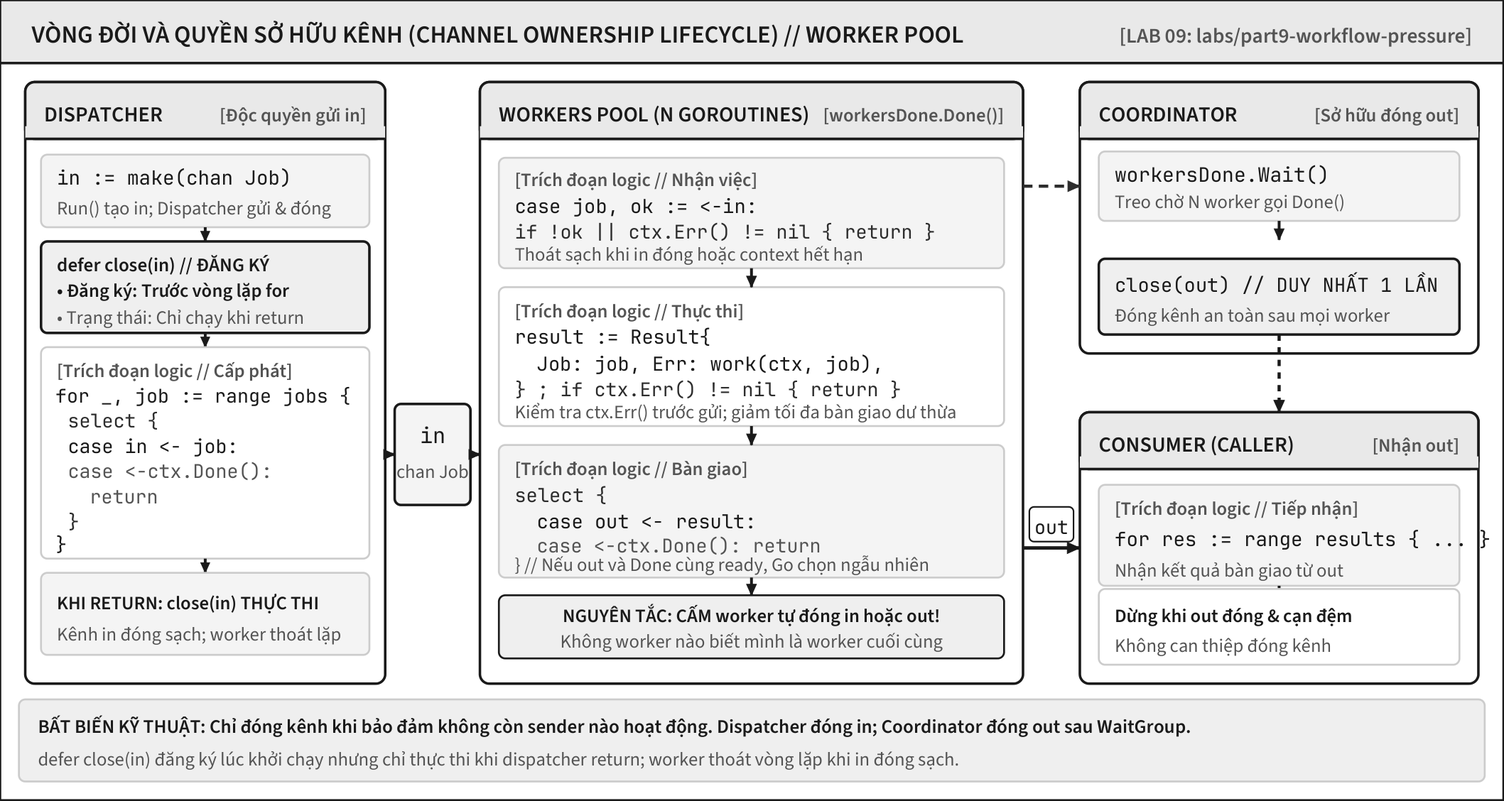
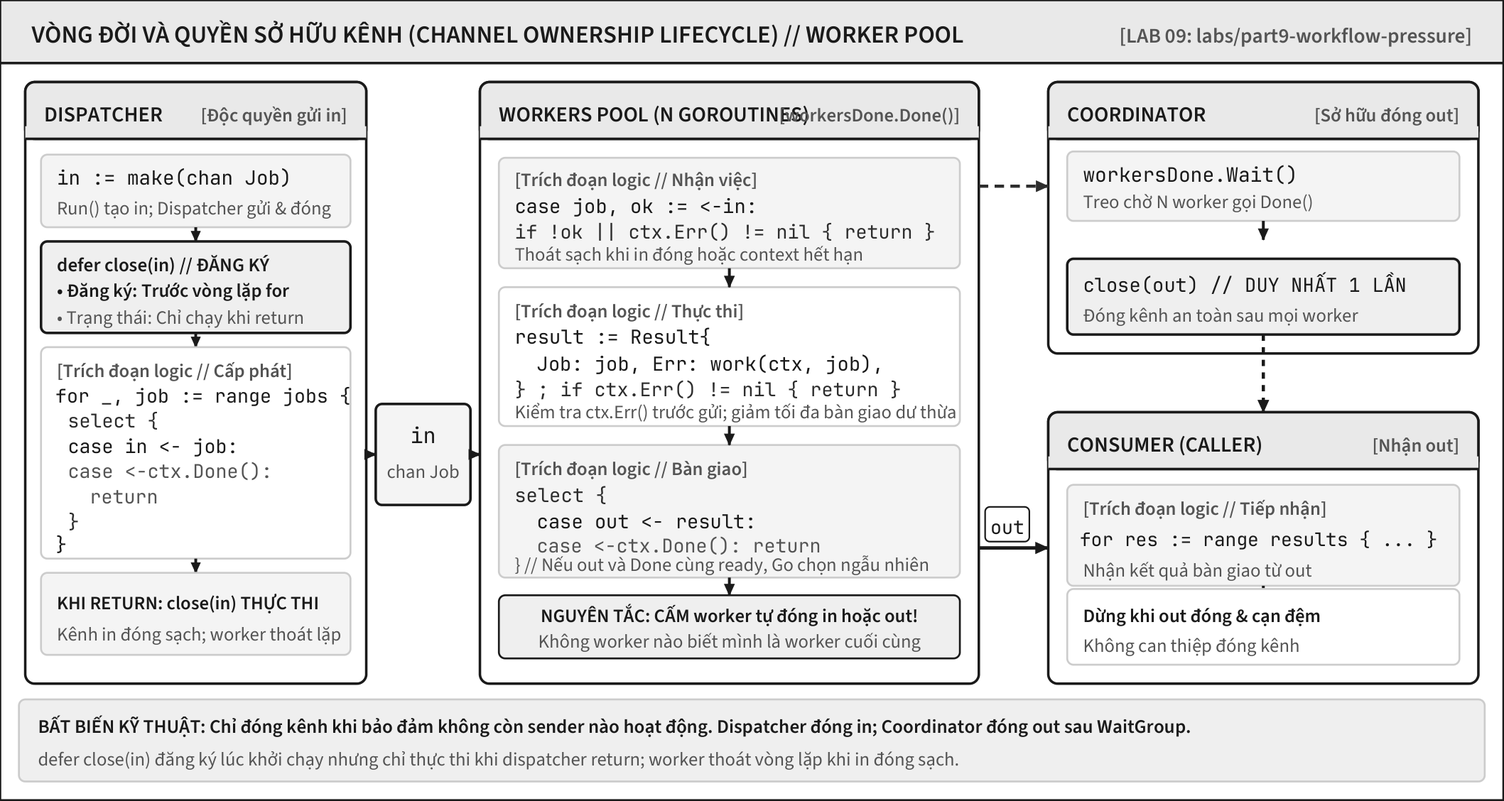
fix(editorial): synchronize technical terms, pronouns, lab contracts and diagram boundaries (ISS-06, ISS-07, ISS-09..ISS-14)

diff --git a/scripts/ch12_15_vector_diagrams.py b/scripts/ch12_15_vector_diagrams.py
@@ -160,14 +160,14 @@ def build_http_service_lifecycle_drawing(w: float = 185.80, h: float = 362.83) -
     card_x = 5.0
     card_w = w - 10.0  # 175.80 pt
 
-    # Heights of 5 stages (Total stages = 262.0 pt)
-    s1_h = 44.0
-    s2_h = 38.0
-    s3_h = 58.0
-    s4_h = 66.0
-    s5_h = 56.0
-    total_stages_h = s1_h + s2_h + s3_h + s4_h + s5_h  # 262.0 pt
-    gap = (body_top - body_bot - total_stages_h) / 4.0  # (291.83 - 262.0) / 4 = 7.4575 pt
+    # Heights of 5 stages (Total stages = 276.0 pt, widened box 02 & 04 ISS-09)
+    s1_h = 43.0
+    s2_h = 46.0
+    s3_h = 56.0
+    s4_h = 77.0
+    s5_h = 54.0
+    total_stages_h = s1_h + s2_h + s3_h + s4_h + s5_h  # 276.0 pt
+    gap = (body_top - body_bot - total_stages_h) / 4.0  # ~3.95 pt
 
     # ------------------------------------------------------------------
     # Stage 1: Khởi tạo & Process Boundary (Startup)
@@ -191,10 +191,10 @@ def build_http_service_lifecycle_drawing(w: float = 185.80, h: float = 362.83) -
     d.add(Rect(card_x + 4.0, y2 + s2_h - 11.0, 15.0, 8.5, fillColor=COLOR_TAG_BG, strokeColor=COLOR_BORDER, strokeWidth=0.5, rx=1.5, ry=1.5))
     d.add(String(card_x + 11.5, y2 + s2_h - 9.0, "02", fontName="BookMono", fontSize=6.0, fillColor=COLOR_INK_DARK, textAnchor="middle"))
     d.add(String(card_x + 23.0, y2 + s2_h - 9.0, "2. TIẾP NHẬN & PHỤC VỤ (ACTIVE)", fontName="BookSansBold", fontSize=6.3, fillColor=COLOR_INK_DARK))
-    d.add(String(card_x + 6.0, y2 + 22.5, "Incoming Request -> ServeHTTP(w, r)", fontName="BookMono", fontSize=6.1, fillColor=COLOR_INK_DARK))
-    d.add(String(card_x + 6.0, y2 + 15.5, "• r.Context() gắn theo vòng đời request", fontName="BookSans", fontSize=6.0, fillColor=COLOR_INK_MID))
-    d.add(String(card_x + 6.0, y2 + 9.5, "• Có thể kế thừa từ Server.BaseContext", fontName="BookSans", fontSize=6.0, fillColor=COLOR_INK_MUTED))
-    d.add(String(card_x + 6.0, y2 + 4.5, "• Handler chạy độc lập với shutdown ctx", fontName="BookSansBold", fontSize=6.0, fillColor=COLOR_INK_DARK))
+    d.add(String(card_x + 6.0, y2 + 27.5, "Incoming Request -> ServeHTTP(w, r)", fontName="BookMono", fontSize=6.1, fillColor=COLOR_INK_DARK))
+    d.add(String(card_x + 6.0, y2 + 19.5, "• r.Context() gắn theo vòng đời request", fontName="BookSans", fontSize=6.0, fillColor=COLOR_INK_MID))
+    d.add(String(card_x + 6.0, y2 + 11.5, "• Có thể kế thừa từ Server.BaseContext", fontName="BookSans", fontSize=6.0, fillColor=COLOR_INK_MUTED))
+    d.add(String(card_x + 6.0, y2 + 4.0, "• Handler chạy độc lập với shutdown ctx", fontName="BookSansBold", fontSize=6.0, fillColor=COLOR_INK_DARK))
     draw_arrow(d, card_x + card_w / 2.0, y2, card_x + card_w / 2.0, y2 - gap, color=COLOR_INK_DARK, width=1.0, head_size=3.6)
 
     # ------------------------------------------------------------------
@@ -243,13 +243,13 @@ def build_http_service_lifecycle_drawing(w: float = 185.80, h: float = 362.83) -
     d.add(Rect(card_x + 4.0, y4 + s4_h - 11.0, 15.0, 8.5, fillColor=COLOR_TAG_BG, strokeColor=COLOR_BORDER, strokeWidth=0.5, rx=1.5, ry=1.5))
     d.add(String(card_x + 11.5, y4 + s4_h - 9.0, "04", fontName="BookMono", fontSize=6.0, fillColor=COLOR_INK_DARK, textAnchor="middle"))
     d.add(String(card_x + 23.0, y4 + s4_h - 9.0, "4. ĐIỀU PHỐI Server.Shutdown", fontName="BookSansBold", fontSize=6.3, fillColor=COLOR_INK_DARK))
-    d.add(String(card_x + 6.0, y4 + 50.5, "shutdownCtx, cancel := context.WithTimeout(", fontName="BookMono", fontSize=6.0, fillColor=COLOR_INK_DARK))
-    d.add(String(card_x + 12.0, y4 + 43.5, "context.Background(), grace); defer cancel()", fontName="BookMono", fontSize=6.0, fillColor=COLOR_INK_DARK))
-    d.add(String(card_x + 6.0, y4 + 36.0, "1. err := srv.Shutdown(shutdownCtx)", fontName="BookSansBold", fontSize=6.0, fillColor=COLOR_INK_DARK))
-    d.add(String(card_x + 10.0, y4 + 28.5, "• Lỗi Shutdown => return fmt.Errorf(\"shutdown: %w\", err)", fontName="BookSans", fontSize=6.0, fillColor=COLOR_INK_DARK))
-    d.add(String(card_x + 6.0, y4 + 21.0, "2. Chỉ khi Shutdown thành công mới nhận <-serveErr:", fontName="BookSansBold", fontSize=6.0, fillColor=COLOR_INK_DARK))
-    d.add(String(card_x + 10.0, y4 + 13.5, "• Khớp ErrServerClosed => return nil (sạch)", fontName="BookSans", fontSize=6.0, fillColor=COLOR_INK_MID))
-    d.add(String(card_x + 10.0, y4 + 6.0, "• Khác ErrServerClosed => bọc lỗi và trả về", fontName="BookSans", fontSize=6.0, fillColor=COLOR_INK_MUTED))
+    d.add(String(card_x + 6.0, y4 + 58.0, "shutdownCtx, cancel := context.WithTimeout(", fontName="BookMono", fontSize=6.0, fillColor=COLOR_INK_DARK))
+    d.add(String(card_x + 12.0, y4 + 49.5, "context.Background(), grace); defer cancel()", fontName="BookMono", fontSize=6.0, fillColor=COLOR_INK_DARK))
+    d.add(String(card_x + 6.0, y4 + 41.0, "1. err := srv.Shutdown(shutdownCtx)", fontName="BookSansBold", fontSize=6.0, fillColor=COLOR_INK_DARK))
+    d.add(String(card_x + 10.0, y4 + 32.5, "• Lỗi Shutdown => return fmt.Errorf(\"shutdown: %w\", err)", fontName="BookSans", fontSize=6.0, fillColor=COLOR_INK_DARK))
+    d.add(String(card_x + 6.0, y4 + 24.0, "2. Chỉ khi Shutdown thành công mới nhận <-serveErr:", fontName="BookSansBold", fontSize=6.0, fillColor=COLOR_INK_DARK))
+    d.add(String(card_x + 10.0, y4 + 15.5, "• Khớp ErrServerClosed => return nil (sạch)", fontName="BookSans", fontSize=6.0, fillColor=COLOR_INK_MID))
+    d.add(String(card_x + 10.0, y4 + 6.5, "• Khác ErrServerClosed => bọc lỗi và trả về", fontName="BookSans", fontSize=6.0, fillColor=COLOR_INK_MUTED))
     draw_arrow(d, card_x + card_w / 2.0, y4, card_x + card_w / 2.0, y4 - gap, color=COLOR_INK_DARK, width=1.0, head_size=3.6)
 
     # ------------------------------------------------------------------

diff --git a/scripts/ch09_11_vector_diagrams.py b/scripts/ch09_11_vector_diagrams.py
@@ -196,15 +196,15 @@ def build_channel_work_lifecycle_drawing(w: float = 476.22, h: float = 253.62) -
     body_y = footer_y + footer_h + 5.0  # 37.0 pt
     body_h = (h - header_h) - body_y - 6.0  # 190.62 pt
 
-    # 3 Columns Layout
+    # 3 Columns Layout (optimized for safe padding & zero overflow ISS-09)
     col1_x = 8.0
-    col1_w = 114.0
+    col1_w = 108.0
 
     col2_x = 152.0
-    col2_w = 172.0
+    col2_w = 158.0
 
-    col3_x = 342.0
-    col3_w = w - col3_x - 8.0  # 126.22 pt
+    col3_x = 332.0
+    col3_w = w - col3_x - 8.0  # 136.22 pt
 
     # ------------------------------------------------------------------
     # COLUMN 1: DISPATCHER (Producer)
@@ -268,7 +268,7 @@ def build_channel_work_lifecycle_drawing(w: float = 476.22, h: float = 253.62) -
     # TRANSFER: Dispatcher -> in channel -> Workers
     # ------------------------------------------------------------------
     chan_jobs_x = col1_x + col1_w + 3.0
-    chan_jobs_w = col2_x - chan_jobs_x - 3.0  # 26.0 pt
+    chan_jobs_w = col2_x - chan_jobs_x - 3.0  # 30.0 pt (widen badge for chan Job padding)
     chan_jobs_y = d3_y + 17.0
     chan_jobs_h = 32.0
 
@@ -387,7 +387,7 @@ def build_channel_work_lifecycle_drawing(w: float = 476.22, h: float = 253.62) -
     cb1_y = c_bot_y + c_bot_h - 18.0 - 5.0 - cb1_h
     d.add(Rect(c_box_x, cb1_y, c_box_w, cb1_h, fillColor=COLOR_BG_SUBTLE, strokeColor=COLOR_BORDER_SUBTLE, strokeWidth=0.6, rx=2, ry=2))
     d.add(String(c_box_x + 5.0, cb1_y + 22.5, "[Trích đoạn logic // Tiếp nhận]", fontName="BookSansBold", fontSize=6.0, fillColor=COLOR_INK_MUTED))
-    d.add(String(c_box_x + 5.0, cb1_y + 12.5, "for res := range results { ... }", fontName="BookMono", fontSize=6.2, fillColor=COLOR_INK_DARK))
+    d.add(String(c_box_x + 4.0, cb1_y + 12.5, "for res := range results { ... }", fontName="BookMono", fontSize=5.9, fillColor=COLOR_INK_DARK))
     d.add(String(c_box_x + 5.0, cb1_y + 3.0, "Nhận kết quả bàn giao từ out", fontName="BookSans", fontSize=6.0, fillColor=COLOR_INK_MUTED))
 
     # Arrow CB1 -> CB2

diff --git a/scripts/ch05_vector_diagrams.py b/scripts/ch05_vector_diagrams.py
@@ -271,7 +271,7 @@ def build_package_boundary_graph_drawing(w: float = 369.13, h: float = 362.83) -
     d.add(Rect(cfg_x + 6.0, bot_box_y + col_h - 35.5, col_w - 12.0, 10.5,
                fillColor=COLOR_TAG_BG, strokeColor=None, rx=1.5, ry=1.5))
     d.add(String(cfg_x + (col_w / 2.0), bot_box_y + col_h - 32.5,
-                 "internal/ giới hạn theo cây thư mục cha",
+                 "internal/ giới hạn theo nhánh import/thư mục cha",
                  fontName="BookSans", fontSize=6.0, fillColor=COLOR_INK_MID, textAnchor="middle"))
 
     # Internal details
@@ -380,7 +380,7 @@ def build_package_boundary_graph_drawing(w: float = 369.13, h: float = 362.83) -
                  fontName="BookSansBold", fontSize=6.8, fillColor=COLOR_INK_DARK))
 
     d.add(String(x_left + 8.0, foot_y + foot_h - 23.0,
-                 "• Quy tắc bắt buộc của Go: internal/ giới hạn import theo cây thư mục cha; compiler từ chối mọi chu trình (import cycle not allowed).",
+                 "• Quy tắc bắt buộc của Go: internal/ giới hạn import theo nhánh import cha (hoặc thư mục cha); compiler từ chối mọi chu trình (import cycle not allowed).",
                  fontName="BookSans", fontSize=6.2, fillColor=COLOR_INK_MID))
     d.add(String(x_left + 8.0, foot_y + foot_h - 33.0,
                  "• Chính sách kiến trúc dự án: Dependency đi một chiều từ cmd; probe và config độc lập hoàn toàn, không import ngược hoặc chéo.",

diff --git a/scripts/render_ch22_diagrams.py b/scripts/render_ch22_diagrams.py
@@ -1,5 +1,8 @@
-"""Render the two editable, grayscale Chapter 22 diagrams at print resolution."""
+"""DEPRECATED: This script is deprecated in favor of scripts/ch19_29_vector_diagrams.py.
 
+Do not use for production diagram generation. The authoritative single source of truth
+for Chapter 22 diagrams (Figures 36 & 37) is scripts/ch19_29_vector_diagrams.py.
+"""
 from __future__ import annotations
 
 from io import BytesIO

diff --git a/book/chapters/29-ky-su-va-bang-chung-trong-ky-nguyen-agent.md b/book/chapters/29-ky-su-va-bang-chung-trong-ky-nguyen-agent.md
@@ -2,7 +2,7 @@
 
 # Chương 29 — Kỹ sư và bằng chứng trong kỷ nguyên Agent
 
-Một tác tử AI (Agent) vừa đề xuất thay đổi thời gian chờ (*timeout*), tăng số lượng bản sao (*replicas*) và khởi động lại một dịch vụ (*restart service*). Nó đưa ra một đoạn giải thích mạch lạc, một bản vá mã nguồn hợp lệ và dòng thông báo “toàn bộ kiểm thử đều đạt”. Nếu bạn bấm đồng ý phê duyệt, điều gì đã thực sự được chứng minh? Rất có thể chỉ là bài kiểm thử trên một nhánh làm việc khác đã chạy thành công; có thể bản vá đang áp dụng cấu hình khác với môi trường thực tế; hoặc cũng có thể quyền khởi động lại chưa từng được cấp phát cho bên gọi này. Chất lượng của câu trả lời do AI sinh ra và quyền hạn tác động trực tiếp vào hệ thống hoàn toàn không phải là cùng một đại lượng.
+Một tác tử AI (Agent) vừa đề xuất thay đổi thời gian chờ (*timeout*), tăng số lượng bản sao (*replicas*) và khởi động lại một dịch vụ (*restart service*). Nó đưa ra một đoạn giải thích mạch lạc, một bản vá mã nguồn hợp lệ và dòng thông báo “toàn bộ kiểm thử đều đạt”. Nếu ta bấm đồng ý phê duyệt, điều gì đã thực sự được chứng minh? Rất có thể chỉ là bài kiểm thử trên một nhánh làm việc khác đã chạy thành công; có thể bản vá đang áp dụng cấu hình khác với môi trường thực tế; hoặc cũng có thể quyền khởi động lại chưa từng được cấp phát cho bên gọi này. Chất lượng của câu trả lời do AI sinh ra và quyền hạn tác động trực tiếp vào hệ thống hoàn toàn không phải là cùng một đại lượng.
 
 Chương 28 đã hướng dẫn cách trao một công cụ có giới hạn rõ ràng. Chương này chuyển dịch góc nhìn từ phạm vi công cụ sang bản chất công việc của người kỹ sư: chuỗi kiểm chứng *đề xuất → bằng chứng → quyền hạn → hành động giới hạn → hậu điều kiện*. Tác tử AI có thể hỗ trợ đắc lực ở nhiều bước, nhưng một bước hoàn tất không tự động thay thế cho bước kế tiếp. Một mã băm đúng không chứng minh mã nguồn đúng; một ca kiểm thử đạt không tự cấp quyền triển khai; và một đợt triển khai thành công không chứng minh người dùng đã được phục vụ tốt hơn. Đây là mô hình tư duy cốt lõi để thiết kế quy trình kiểm soát và đánh giá khách quan những lời hứa hẹn về tương lai nghề nghiệp, chứ không phải một lời dự đoán xem chức danh nào sẽ trường tồn mãi mãi.
 
@@ -50,7 +50,7 @@ Bản triển khai báo xanh trên giao diện CI/CD chưa đồng nghĩa với 
 
 ### Bài thực hành: Đánh giá phản biện ngắn
 
-Một nhóm kỹ sư báo cáo: “Tác tử AI giúp tăng gấp đôi số lượng yêu cầu hợp nhất mã (Pull Request, tức PR) mỗi tuần”, nhưng hoàn toàn không có số liệu về tỷ lệ PR được chấp thuận, thời gian chờ duyệt hay sự cố phát sinh sau khi phát hành. Hãy chỉ ra ba chỉ số dữ liệu cần thu thập thêm trước khi đưa ra kết luận năng suất thực tế đã tăng. Không cần phủ nhận con số PR tăng lên; bạn cần chỉ rõ con số đó chỉ đo lường nỗ lực đầu vào chứ chưa đo lường kết quả giá trị thực tế đầu ra.
+Một nhóm kỹ sư báo cáo: “Tác tử AI giúp tăng gấp đôi số lượng yêu cầu hợp nhất mã (Pull Request, tức PR) mỗi tuần”, nhưng hoàn toàn không có số liệu về tỷ lệ PR được chấp thuận, thời gian chờ duyệt hay sự cố phát sinh sau khi phát hành. Hãy chỉ ra ba chỉ số dữ liệu cần thu thập thêm trước khi đưa ra kết luận năng suất thực tế đã tăng. Không cần phủ nhận con số PR tăng lên; ta cần chỉ rõ con số đó chỉ đo lường nỗ lực đầu vào chứ chưa đo lường kết quả giá trị thực tế đầu ra.
 
 ## Một cuộc điều tra trước khi cho phép restart
 
@@ -101,17 +101,17 @@ Một cờ đánh dấu đã sử dụng lưu trong bộ nhớ RAM không giải
 
 ## Năng lực nào cần luyện nếu không muốn chỉ làm người bấm duyệt?
 
-Sự khác biệt giữa việc đánh giá mã nguồn (*code review*) thực thụ và việc chỉ đọc lướt qua nằm ở chỗ bạn có khả năng thiết kế một phép thử phản biện để bác bỏ giả định. Với mã đồng thời (*concurrency*), hãy vẽ sơ đồ truy cập bộ nhớ và các cạnh quan hệ diễn ra trước (*happens-before*) thay vì mù quáng tin vào nhãn an toàn đa luồng (*thread-safe*). Với mạng máy tính, hãy theo dõi thời gian chờ qua từng chặng: phân giải DNS, thiết lập kết nối TCP, bắt tay mã hóa TLS, truyền nhận thân phản hồi; một mã trạng thái HTTP đơn thuần không thể phản ánh toàn bộ đường dẫn của một yêu cầu. Với Linux, hãy phân biệt rành mạch giữa tiến trình, bộ mô tả tệp, không gian tên (*namespaces*), hạn ngạch tài nguyên và dung lượng bộ nhớ được hoạch toán. Với hệ thống phân tán, hãy luôn đặt câu hỏi: trùng lặp dữ liệu, quan sát cũ kỹ, cơ chế thử lại và tác dụng phụ (*side effects*) xảy ra tại ranh giới nào. Đây là những năng lực kỹ thuật cốt lõi có thể chuyển giao giữa các công cụ, không hề phụ thuộc vào bất kỳ mô hình AI cụ thể nào.
+Sự khác biệt giữa việc đánh giá mã nguồn (*code review*) thực thụ và việc chỉ đọc lướt qua nằm ở chỗ kỹ sư có khả năng thiết kế một phép thử phản biện để bác bỏ giả định. Với mã đồng thời (*concurrency*), hãy vẽ sơ đồ truy cập bộ nhớ và các cạnh quan hệ diễn ra trước (*happens-before*) thay vì mù quáng tin vào nhãn an toàn đa luồng (*thread-safe*). Với mạng máy tính, hãy theo dõi thời gian chờ qua từng chặng: phân giải DNS, thiết lập kết nối TCP, bắt tay mã hóa TLS, truyền nhận thân phản hồi; một mã trạng thái HTTP đơn thuần không thể phản ánh toàn bộ đường dẫn của một yêu cầu. Với Linux, hãy phân biệt rành mạch giữa tiến trình, bộ mô tả tệp, không gian tên (*namespaces*), hạn ngạch tài nguyên và dung lượng bộ nhớ được hoạch toán. Với hệ thống phân tán, hãy luôn đặt câu hỏi: trùng lặp dữ liệu, quan sát cũ kỹ, cơ chế thử lại và tác dụng phụ (*side effects*) xảy ra tại ranh giới nào. Đây là những năng lực kỹ thuật cốt lõi có thể chuyển giao giữa các công cụ, không hề phụ thuộc vào bất kỳ mô hình AI cụ thể nào.
 
 Khả năng quan sát (*observability*) cũng không đơn thuần là dựng các bảng điều khiển đồ họa (*dashboards*). Một vết thực thi có đủ dữ liệu tương quan để phân biệt giữa thời gian chờ trong hàng đợi và thời gian chờ dịch vụ phụ thuộc hay không? Một chỉ số biến động do sự thay đổi của cơ cấu lưu lượng mạng hay do thay đổi trong mã nguồn? Tác tử AI có thể hỗ trợ viết câu truy vấn và tóm tắt nhật ký; nhưng người kỹ sư vẫn là bên quyết định khế ước đo lường và bảo vệ dữ liệu nhạy cảm. Trong xử lý sự cố, tự động hóa tác vụ chỉ đọc dữ liệu có mức độ rủi ro hoàn toàn khác so với tự động hóa tác vụ xóa Pod hay chỉnh sửa tường lửa. Một hành động “khắc phục nhanh” thiếu kiểm soát có thể xóa sạch hiện trạng hiện trường cần phục vụ điều tra. Quyền hạn và chứng cứ bắt buộc phải tương xứng với mức độ tác động của hành động, không dựa trên vẻ tự tin trong văn bản của mô hình ngôn ngữ.
 
-Một bài thực hành độc lập có thể đọng lại bằng một bộ hồ sơ kỹ thuật cô đọng: yêu cầu bạn tự tay xác lập, phản ví dụ bạn tìm ra, gói phát hành đúng phiên bản, ca kiểm thử bạn đã chạy, phép đo lường có ranh giới rõ ràng, quyết định phân quyền và các hậu điều kiện bạn trực tiếp quan sát. Đừng chỉ lưu lại những đoạn hội thoại dài với AI. Một hồ sơ kỹ thuật vững chắc cho phép người khác kiểm chứng lại toàn bộ lý do đằng sau mỗi quyết định, kể cả khi tác tử AI hay các thư viện đã thay đổi phiên bản. Đó chính là năng lực kiểm chứng có thể rèn luyện được, chứ không phải một ảo tưởng về sự miễn nhiễm trước những biến động của thị trường.
+Một bài thực hành độc lập có thể đọng lại bằng một bộ hồ sơ kỹ thuật cô đọng: yêu cầu ta tự tay xác lập, phản ví dụ ta tìm ra, gói phát hành đúng phiên bản, ca kiểm thử ta đã chạy, phép đo lường có ranh giới rõ ràng, quyết định phân quyền và các hậu điều kiện ta trực tiếp quan sát. Đừng chỉ lưu lại những đoạn hội thoại dài với AI. Một hồ sơ kỹ thuật vững chắc cho phép người khác kiểm chứng lại toàn bộ lý do đằng sau mỗi quyết định, kể cả khi tác tử AI hay các thư viện đã thay đổi phiên bản. Đó chính là năng lực kiểm chứng có thể rèn luyện được, chứ không phải một ảo tưởng về sự miễn nhiễm trước những biến động của thị trường.
 
 ## Kết thúc ở một quyết định có thể bảo vệ
 
 Không có bất kỳ kết luận chắc chắn nào khẳng định “AI sẽ cướp mất nghề nghiệp” hay “kỹ sư giỏi sẽ hoàn toàn không bị ảnh hưởng” từ các tài liệu nghiên cứu hiện có. Các bằng chứng thực nghiệm cho thấy công cụ AI hỗ trợ tăng tốc một số tác vụ nhất định, nhưng lại làm chậm các tác vụ khác trong môi trường phức tạp, đồng thời việc đo lường năng suất khi công cụ liên tục thay đổi là bài toán nhiều thách thức phức tạp. Các dự báo việc làm chỉ mang tính diện rộng tại thị trường Hoa Kỳ, hoàn toàn không có một dự báo chuyên biệt nào đủ căn cứ khoa học cho thị trường kỹ sư Go hay SRE tại Việt Nam. Do đó, thông điệp cốt lõi của cuốn sách là một khuyến nghị có điều kiện: hãy tập trung học cách xây dựng và kiểm chứng hệ thống, tận dụng AI để mở rộng năng lực cá nhân nhưng luôn giữ quyền hạn, gói phát hành và kết quả đầu ra thành những đối tượng có thể kiểm toán minh bạch.
 
-Khi có ai đó hỏi vì sao bạn phê chuẩn một thay đổi trong hệ thống, câu trả lời thuyết phục không bao giờ là “tác tử AI đề xuất như thế” hay “toàn bộ kiểm thử đều báo xanh”. Câu trả lời đó phải là: dựa trên khế ước kỹ thuật nào, bằng chứng gắn liền với gói phát hành nào, trong điều kiện môi trường nào, do ai có thẩm quyền phê duyệt, và trạng thái hệ thống sau khi thực thi đã được quan sát, đo lường ra sao. Một cuốn bách khoa kỹ thuật thực chiến không dừng lại ở việc học thuộc thêm một thư viện. Nó dừng lại ở năng lực thấu suốt: biết rõ mình đang chứng minh điều gì, và điều gì vẫn còn là ẩn số chưa được kiểm chứng.
+Khi có ai đó hỏi vì sao ta phê chuẩn một thay đổi trong hệ thống, câu trả lời thuyết phục không bao giờ là “tác tử AI đề xuất như thế” hay “toàn bộ kiểm thử đều báo xanh”. Câu trả lời đó phải là: dựa trên khế ước kỹ thuật nào, bằng chứng gắn liền với gói phát hành nào, trong điều kiện môi trường nào, do ai có thẩm quyền phê duyệt, và trạng thái hệ thống sau khi thực thi đã được quan sát, đo lường ra sao. Một cuốn bách khoa kỹ thuật thực chiến không dừng lại ở việc học thuộc thêm một thư viện. Nó dừng lại ở năng lực thấu suốt: biết rõ mình đang chứng minh điều gì, và điều gì vẫn còn là ẩn số chưa được kiểm chứng.
 
 @references
 1. Peng, S.; Kalliamvakou, E.; Cihon, P.; Demirer, M. The Impact of AI on Developer Productivity: Evidence from GitHub Copilot. arXiv:2302.06590, 2023. arxiv.org/abs/2302.06590

diff --git a/book/README.md b/book/README.md
@@ -2,52 +2,38 @@
 
 Đây là một cuốn sách đi từ việc **đọc được một tệp Go** đến việc thiết kế, đo đạc và vận hành phần mềm. Mỗi chương là một chuyển dịch đáng kể trong cách nghĩ, không phải một từ khoá hay một API bị tách riêng.
 
-## Phần I — Đọc và viết Go có chủ đích
+## PHẦN I: NỀN TẢNG CƠ HỌC & BỘ NHỚ GO (Chương 00–06)
 
-1. **Một chương trình Go, đọc từ ngoài vào trong.** Tệp nguồn, package, import, tên, literal, khai báo, biểu thức, câu lệnh, block, kiểu, hàm, điều khiển luồng và cách compiler ghép chúng thành một chương trình.
-2. **Giá trị di chuyển qua chương trình.** Biến, const, assignment, conversion, hàm, return, zero value, array, slice, string và điểm mà hai biến bắt đầu dùng chung dữ liệu.
-3. **Mô hình dữ liệu và ownership.** Struct, map, pointer, method, interface, composition và cách chọn API nhỏ dễ đổi.
-
-## Phần II — Làm cho code sửa được và tin được
-
+0. **Mở cửa vào Go & Trước khi viết dòng Go đầu tiên.** Triết lý thiết kế, công cụ kiểm định tĩnh sớm nhất, và dòng dõi ý tưởng Unix / Plan 9.
+1. **Đọc và viết một chương trình Go.** Tệp nguồn, package, import, tên, literal, khai báo, biểu thức, câu lệnh, block, kiểu, hàm, điều khiển luồng và cách compiler ghép chúng thành một chương trình.
+2. **Giá trị, slice và aliasing.** Biến, const, assignment, conversion, hàm, return, zero value, array, slice, string và điểm mà hai biến bắt đầu dùng chung dữ liệu.
+3. **Mô hình dữ liệu và trách nhiệm thay đổi.** Struct, map, pointer, method, interface, composition và cách chọn API nhỏ dễ đổi.
 4. **Biên lỗi.** Error, wrapping, cancellation, defer, panic/recover và quyết định lỗi nào phải đi qua ranh giới nào.
 5. **Thiết kế package.** Module, import graph, internal, configuration, documentation và dependency mà một người đọc có thể lần theo.
 6. **Thay đổi không sợ hãi.** Một đoạn code khó test được refactor dần sang unit test, fake, fuzz, race detector, benchmark và contract test.
+
+## PHẦN II: TƯƠNG TRANH & ĐỘ ỔN ĐỊNH HỆ THỐNG (Chương 07–13)
+
 7. **Dữ liệu đi vào và đi ra.** Stream, resource lifetime, filesystem, JSON/CSV, time, context và các lựa chọn khiến một chương trình I/O không tự treo.
-
-## Phần III — Nhiều việc cùng lúc, nhưng không mất kiểm soát
-
 8. **Một race bắt đầu từ đâu.** Các access chung không có thứ tự an toàn, bốn tầng bằng chứng, và cách đọc race report trước khi nói về API đồng thời.
 9. **Dòng công việc có áp suất.** Channel, select, ownership, cancellation, backpressure, worker pool và leak.
 10. **Khi chương trình chậm hoặc phình.** Benchmark, pprof, trace, allocation, escape, GC, đối chiếu mental model G/M/P từ Chương 09 với execution trace, syscall và cách đo trước khi tối ưu.
-
-## Phần IV — Giao tiếp, dữ liệu và dịch vụ
-
 11. **Một request thực sự đi đâu.** DNS, TCP, TLS, HTTP, connection reuse, retry, timeout và trace của client.
 12. **Một service sống và tắt thế nào.** HTTP server, routing, middleware, validation, shutdown, log và security boundary.
-13. **Dữ liệu có trạng thái.** Một thao tác nhiều bước chỉ có ý nghĩa khi state sau cùng kể được một câu chuyện nhất quán; bắt đầu bằng transaction, rồi đi tới pool, migration, cache, serialization và consistency.
+13. **Một thay đổi hoặc không có gì.** Dữ liệu có trạng thái, transaction nguyên tử, pool, migration, cache, serialization và tính nhất quán.
+
+## PHẦN III: DỊCH VỤ PHÂN TÁN & CƠ SỞ DỮ LIỆU (Chương 14–21)
+
 14. **Khi kiểu trở thành dữ liệu.** Reflection, unsafe, memory layout và các giới hạn cần được chứng minh trước khi vượt qua.
-
-## Phần V — Go trong vận hành
-
 15. **Từ incident đến công cụ.** CLI, process, signal, os/exec, cấu hình và log; xây công cụ chẩn đoán cho một sự cố mô phỏng.
-16. **Thấy được hệ thống.** Health check, metrics, tracing, SLI/SLO và điều tra sự cố bằng dữ liệu thay vì suy đoán; stage hai với Prometheus và OpenTelemetry.
-17. **Đóng gói và điều phối.** OCI/Docker, Kubernetes API, controller, reconciliation và ranh giới vận hành; stage hai với containerization, cluster manifests và client-go.
-18. **Đưa thay đổi ra production.** CI/CD, supply-chain security, IAM tối thiểu, cost guardrail, rollback và case study cuối sách; stage hai với delivery pipeline, promotion gate và AWS OIDC bridge.
-
-## Phần VI — Abstraction giữ được thông tin
-
+16. **Thấy được hệ thống.** Health check, metrics, tracing, SLI/SLO và điều tra sự cố bằng dữ liệu thay vì suy đoán; Prometheus và OpenTelemetry.
+17. **Đóng gói và điều phối.** OCI/Docker, containerization, cluster manifests và client-go.
+18. **Đưa thay đổi ra production.** CI/CD, supply-chain security, IAM tối thiểu, delivery pipeline, promotion gate và AWS OIDC bridge.
 19. **Giữ type information khi abstraction lớn lên.** Generics, constraint, generic method của Go 1.27, interface runtime semantics, type assertion, type switch và typed-nil.
-
-## Phần VII — Dự án tổng kết
-
 20. **Dự án tổng kết: opsprobe từ mã nguồn đến vận hành.** Xây dựng hoàn chỉnh hệ thống `opsprobe` kết nối toàn bộ kiến thức: domain logic, worker pool bị chặn, transaction nguyên tử SQLite, telemetry Prometheus và OpenTelemetry, HTTP API có backpressure, container distroless non-root, và bài tập chẩn đoán sự cố rò rỉ socket TCP được chứng minh bằng thực nghiệm.
+21. **Vòng lặp điều hòa controller.** Từ quan sát thụ động sang tự điều hòa chủ động; level-triggered vs edge-triggered; thiết kế rate-limited deduplicating workqueue bằng Go; kiểm soát giãn cách lũy thừa ngăn bão retry; tính lũy đẳng và tắt nguồn mềm mại cho controller.
 
-## Phần VIII — Hệ thống Tự trị và Điều hòa
-
-21. **Vòng lặp điều hòa và Controller Pattern.** Từ quan sát thụ động sang tự điều hòa chủ động; level-triggered vs edge-triggered; thiết kế rate-limited deduplicating workqueue bằng Go; kiểm soát giãn cách lũy thừa (exponential backoff) ngăn bão retry; tính lũy đẳng (idempotency) và tắt nguồn mềm mại cho controller.
-
-## Phần IX — Điều phối Nâng cao, Hạ tầng Cloud & Tự động hóa Thông minh (Hoàn thành)
+## PHẦN IV: KUBERNETES OPERATOR & eBPF NÂNG CAO (Chương 22–29)
 
 22. **Từ watch đến một controller Kubernetes thật.** API server là authoritative state; List/Watch; resourceVersion; Reflector và Informer; event handler và cache sync; typed rate-limited workqueue của client-go; optimistic concurrency; retry và conflict resolution.
 23. **Từ controller đến operator: API riêng và vòng đời tài nguyên.** Custom Resource Definition (CRD); spec vs status; controller-runtime Scheme và Manager; Reconcile request; owner references và garbage collection; finalizer idempotency.
@@ -56,9 +42,6 @@
 26. **Chuỗi cung ứng phần mềm có thể kiểm chứng.** Go module dependency graph và go.sum; govulncheck symbol reachability; immutable OCI digests; keyless signing với Cosign; provenance và attestation; fail-closed admission policy gate.
 27. **Quan sát Linux từ kernel bằng eBPF và Go.** eBPF verifier và ranh giới kernel/userspace; bpf2go code generation; BPF maps và ring buffers; nạp và quản lý vòng đời eBPF bằng cilium/ebpf; quan sát process exec tracepoints.
 28. **MCP và AIOps bằng Go: trao công cụ cho Agent mà không trao toàn quyền.** Model Context Protocol (MCP) Go SDK; stdio transport; schema-validated tool definitions; least privilege và ranh giới authorization; phòng chống SSRF; audit trail cho các hành động vận hành.
-
-## Phần X — Kỹ sư trong kỷ nguyên Agent
-
 29. **Kỹ sư và bằng chứng trong kỷ nguyên Agent.** Phân biệt task với nghề, thí nghiệm với survey và dự báo; đọc dữ liệu có ngày/mẫu/phạm vi; thiết kế rào chắn gắn bằng chứng với artifact, caller và quyền hành động. Lab local từ contract, không kết nối production.
 
 ## Back Matter & Phụ lục (Luôn nằm ở cuối sách)

diff --git a/book/chapters/24-tu-dong-hoa-aws-bang-go.md b/book/chapters/24-tu-dong-hoa-aws-bang-go.md
@@ -2,13 +2,13 @@
 
 # Chương 24 — Tự động hóa AWS bằng Go mà không biến credential thành bí mật dài hạn
 
-Trong hành trình xây dựng các công cụ vận hành và nền tảng hạ tầng, giao tiếp với các dịch vụ điện toán đám mây là nhiệm vụ thiết yếu của kỹ sư DevOps/SRE. Cho dù bạn viết công cụ dọn dẹp snapshot định kỳ, sao lưu cơ sở dữ liệu lên Amazon S3, hay điều phối máy chủ qua EC2, bạn đều phải trả lời một câu hỏi bảo mật sống còn:
+Trong hành trình xây dựng các công cụ vận hành và nền tảng hạ tầng, giao tiếp với các dịch vụ điện toán đám mây là nhiệm vụ thiết yếu của kỹ sư DevOps/SRE. Cho dù kỹ sư viết công cụ dọn dẹp snapshot định kỳ, sao lưu cơ sở dữ liệu lên Amazon S3, hay điều phối máy chủ qua EC2, ta đều phải trả lời một câu hỏi bảo mật cốt lõi:
 
 > *Làm thế nào để chương trình Go giao tiếp an toàn với AWS API mà không bao giờ nhúng Access Key dài hạn vào mã nguồn, file cấu hình hay biến môi trường?*
 
 Để lộ cặp khóa `AWS_ACCESS_KEY_ID` và `AWS_SECRET_ACCESS_KEY` dài hạn trong repo hoặc log có thể cho phép sử dụng quyền của khóa cho đến khi bị thu hồi. Vì vậy chương này ưu tiên credential tạm thời và quyền tối thiểu; không gán thứ hạng nguyên nhân sự cố khi không có bộ dữ liệu tương ứng.
 
-Chương 21 đến Chương 23 đã xây dựng mô hình điều hòa: quan sát trạng thái, tính sai lệch, hành động và quan sát lại để đảm bảo tính lũy đẳng trong Kubernetes. Khi mở rộng sang đám mây, các nguyên lý ấy vẫn giữ nguyên giá trị: việc tự động hóa AWS API (như dọn dẹp snapshot hay lưu trữ backup) cũng là một dạng điều hòa với hệ thống ngoại vi, nơi tính lũy đẳng nghiệp vụ, ranh giới lỗi và quyền hạn tạm thời quyết định độ tin cậy của hệ thống. Chương này trang bị cho bạn tư duy thiết kế hệ thống tự động hóa đám mây dựa trên thư viện chính thức AWS SDK for Go v2: từ cơ chế cấp quyền động ngắn hạn (Temporary Credentials), xác định Region, ngăn xếp middleware Smithy, ký chữ ký số SigV4, đến duyệt dữ liệu lớn qua Paginator và phân loại lỗi chuẩn mực.
+Chương 21 đến Chương 23 đã xây dựng mô hình điều hòa: quan sát trạng thái, tính sai lệch, hành động và quan sát lại để đảm bảo tính lũy đẳng trong Kubernetes. Khi mở rộng sang đám mây, các nguyên lý ấy vẫn giữ nguyên giá trị: việc tự động hóa AWS API (như dọn dẹp snapshot hay lưu trữ backup) cũng là một dạng điều hòa với hệ thống ngoại vi, nơi tính lũy đẳng nghiệp vụ, ranh giới lỗi và quyền hạn tạm thời quyết định độ tin cậy của hệ thống. Chương này trang bị cho kỹ sư tư duy thiết kế hệ thống tự động hóa đám mây dựa trên thư viện chính thức AWS SDK for Go v2: từ cơ chế cấp quyền động ngắn hạn (Temporary Credentials), xác định Region, ngăn xếp middleware Smithy, ký chữ ký số SigV4, đến duyệt dữ liệu lớn qua Paginator và phân loại lỗi chuẩn mực.
 
 ---
 
@@ -75,7 +75,7 @@ resp, err := client.ListObjectsV2(ctx, &s3.ListObjectsV2Input{
 
 Một bucket trên S3 có thể chứa 10 triệu đối tượng. API `ListObjectsV2` mặc định chỉ trả về tối đa 1.000 file mỗi lần gọi và trả về mã thông báo tiếp tục (`NextContinuationToken`).
 
-Nếu bạn tự viết vòng lặp `for` với token thủ công, mã nguồn sẽ trở nên cồng kềnh và dễ gặp lỗi vòng lặp vô tận nếu xử lý sai điều kiện ngắt.
+Nếu ta tự viết vòng lặp `for` với token thủ công, mã nguồn sẽ trở nên cồng kềnh và dễ gặp lỗi vòng lặp vô tận nếu xử lý sai điều kiện ngắt.
 
 ### Mẫu hình chuẩn: SDK Paginator
 
@@ -106,7 +106,7 @@ Bộ phân trang chỉ lưu giữ trang dữ liệu đang xử lý tại thời 
 
 ## 4. Phân loại lỗi và Thử lại: smithy.APIError
 
-Khi một lệnh gọi AWS thất bại, bạn không thể chỉ so sánh chuỗi lỗi bằng `strings.Contains(err.Error(), "404")`. AWS trả về lỗi có cấu trúc chuẩn mực thông qua interface `smithy.APIError`.
+Khi một lệnh gọi AWS thất bại, ta không thể chỉ so sánh chuỗi lỗi bằng `strings.Contains(err.Error(), "404")`. AWS trả về lỗi có cấu trúc chuẩn mực thông qua interface `smithy.APIError`.
 
 Cơ chế thử lại ở tầng truyền vận của SDK (`aws.Retryer`, mặc định tối đa 3 lần với thuật toán lùi lũy thừa kèm độ trễ ngẫu nhiên cho các lỗi tạm thời) hoàn toàn không bảo đảm tính lũy đẳng nghiệp vụ (*business idempotency*). Nếu một yêu cầu ghi bị ngắt kết nối mạng sau khi máy chủ AWS đã tiếp nhận và thực thi thành công, việc SDK tự động thử lại có thể gây ra tác dụng phụ lặp lại ngoài ý muốn. Một số giao diện API của AWS cung cấp mã định danh lũy đẳng tường minh (như `ClientToken` trong EC2) để máy chủ nhận diện yêu cầu gửi lặp; tuy nhiên đối với thao tác `PutObject` trên Amazon S3, ngữ nghĩa phụ thuộc chặt chẽ vào cấu hình kho lưu trữ và các điều kiện tiên quyết. Khi kho lưu trữ bật tính năng quản lý phiên bản (*Versioning*), nhiều lượt gửi dữ liệu với cùng một khóa sẽ tạo ra các phiên bản độc lập chứ không ghi đè tại chỗ, do đó việc dùng chung một khóa không bảo đảm tạo ra một hiệu ứng phụ duy nhất. Khi bài toán đòi hỏi tạo mới mà không ghi đè, hệ thống có thể cần yêu cầu có điều kiện (như `If-None-Match: *` khi dịch vụ hỗ trợ), nhưng đây không phải giải pháp vạn năng cho mọi tình huống. Tính lũy đẳng nghiệp vụ bắt buộc phải được thiết kế dựa trên đúng khế ước kỹ thuật của từng thao tác và dịch vụ cụ thể. Trong chính sách của bài thực hành, lỗi từ chối truy cập `AccessDenied` tuyệt đối không được phép thử lại như lỗi tạm thời. Các lỗi điều tiết lưu lượng hoặc dịch vụ tạm thời không khả dụng có thể áp dụng thuật toán lùi lũy thừa, nhưng quyết định thử lại còn phụ thuộc vào bản chất thao tác, định mức tài nguyên và tính lũy đẳng. Đối với sự cố quá thời gian sau một thao tác ghi, máy chủ có thể đã hoàn tất hiệu ứng phụ; tuyệt đối không thử lại một cách mù quáng chỉ vì tên lỗi chứa chuỗi `RequestTimeout`. Hãy sử dụng bộ phân loại lỗi kết hợp chặt chẽ với khế ước dịch vụ và bộ thử lại đã được cấu hình cẩn trọng.
 

diff --git a/book/chapters/02-gia-tri-slice-va-aliasing.md b/book/chapters/02-gia-tri-slice-va-aliasing.md
@@ -2,7 +2,7 @@
 
 # Chương 2 — Khi một bản sao vẫn chia sẻ dữ liệu
 
-Chạy đoạn này trước khi cố giải thích nó. Nếu bạn đoán a và b khác nhau sau dòng b[0] = 99, đó là một dự đoán rất hợp lý - và cũng là cánh cửa vào phần này.
+Chạy đoạn này trước khi cố giải thích nó. Nếu ta đoán `a` và `b` khác nhau sau dòng `b[0] = 99`, đó là một dự đoán rất hợp lý - và cũng là cánh cửa vào phần này.
 
 ~~~go
 a := []int{10, 20, 30}
@@ -36,7 +36,7 @@ fmt.Println(a, b) // 10 99
 
 Go đã sao chép giá trị của `a` sang `b`. Sau đó `b` nhận giá trị mới; `a` không đổi. Phép gán sao chép giá trị; khi gọi hàm, đối số cũng được truyền theo giá trị. Cả hai quy tắc đều không hứa rằng mọi dữ liệu được tham chiếu bên trong giá trị ấy sẽ được sao chép. Ta cần biết chính xác giá trị đang chứa gì.
 
-Array giúp ta kiểm tra quy tắc ấy với nhiều phần tử. Độ dài là một phần của type, nên [3]int và [4]int là hai array type khác nhau. Khi array được gán, toàn bộ array value được copy.
+Array giúp ta kiểm tra quy tắc ấy với nhiều phần tử. Độ dài là một phần của type, nên `[3]int` và `[4]int` là hai array type khác nhau. Khi array được gán, toàn bộ array value được copy.
 
 ~~~go
 a := [3]int{10, 20, 30}
@@ -49,9 +49,9 @@ fmt.Println(b) // [99 20 30]
 
 ![Hai array value sau assignment: phần tử được copy vào vùng dữ liệu riêng.](../../assets/diagrams/array-copy.png)
 
-@figure Phép gán của mảng sao chép toàn bộ các phần tử. Việc thay đổi b[0] chỉ tác động vào mảng b riêng biệt.
+@figure Phép gán của mảng sao chép toàn bộ các phần tử. Việc thay đổi `b[0]` chỉ tác động vào mảng `b` riêng biệt.
 
-Đến đây, trực giác “copy nghĩa là độc lập” vẫn đúng. Sự thay đổi xuất hiện chỉ khi ta bỏ một ký tự trong type: [3]int trở thành []int.
+Đến đây, trực giác “copy nghĩa là độc lập” vẫn đúng. Sự thay đổi xuất hiện chỉ khi ta bỏ một ký tự trong type: `[3]int` trở thành `[]int`.
 
 ## Khoảnh khắc slice đổi kết quả
 
@@ -79,7 +79,7 @@ Vì vậy hai câu sau cùng đúng, và không mâu thuẫn:
 
 | Câu nói | Đúng ở đâu? |
 | --- | --- |
-| Assignment copy value. | b nhận một slice descriptor riêng: đổi len của b bằng reslice không tự đổi len của a. |
+| Assignment copy value. | `b` nhận một slice descriptor riêng: đổi `len` của `b` bằng reslice không tự đổi `len` của `a`. |
 | Hai slice có thể cùng đổi dữ liệu. | Slice descriptor cùng tham chiếu một backing array; mutation một element hiện ra qua mọi slice cùng nhìn element đó. |
 
 Từ aliasing dùng cho tình huống nhiều đường tham chiếu đến cùng dữ liệu. Nó không phải lỗi tự thân. Aliasing giúp cắt một cửa sổ trên buffer mà không copy cả buffer. Nó thành bug khi một người đọc tưởng mình có dữ liệu riêng nhưng thực tế lại đang sửa vùng dùng chung.
@@ -97,7 +97,7 @@ fmt.Println(len(x)) // 2
 fmt.Println(cap(x)) // 4
 ~~~
 
-x bắt đầu ở phần tử 20 của base và kết thúc trước 40. Vì thế length là 2. Capacity đếm số phần tử từ điểm bắt đầu của x đến cuối backing array mà x hiện có thể mở rộng tới; ở đây là 20, 30, 40, 50, nên là 4.
+`x` bắt đầu ở phần tử 20 của `base` và kết thúc trước 40. Vì thế length là 2. Capacity đếm số phần tử từ điểm bắt đầu của x đến cuối backing array mà x hiện có thể mở rộng tới; ở đây là 20, 30, 40, 50, nên là 4.
 
 ![Một slice window: vùng thấy được là len; phần còn có thể mở rộng là capacity.](../../assets/diagrams/slice-window.png)
 
@@ -116,7 +116,7 @@ fmt.Println(a)
 fmt.Println(b)
 ~~~
 
-Kết quả là [1 99 3 4], [1 99], [99 3]. a[1] và b[0] đều chỉ vào phần tử base[1]. Hình vẽ không thay thế được việc lần index: nó chỉ cho biết vì sao có thể có một phần tử chung để lần.
+Kết quả là [1 99 3 4], [1 99], [99 3]. `a[1]` và `b[0]` đều chỉ vào phần tử `base[1]`. Hình vẽ không thay thế được việc lần index: nó chỉ cho biết vì sao có thể có một phần tử chung để lần.
 
 ## append là một phép thử về capacity
 
